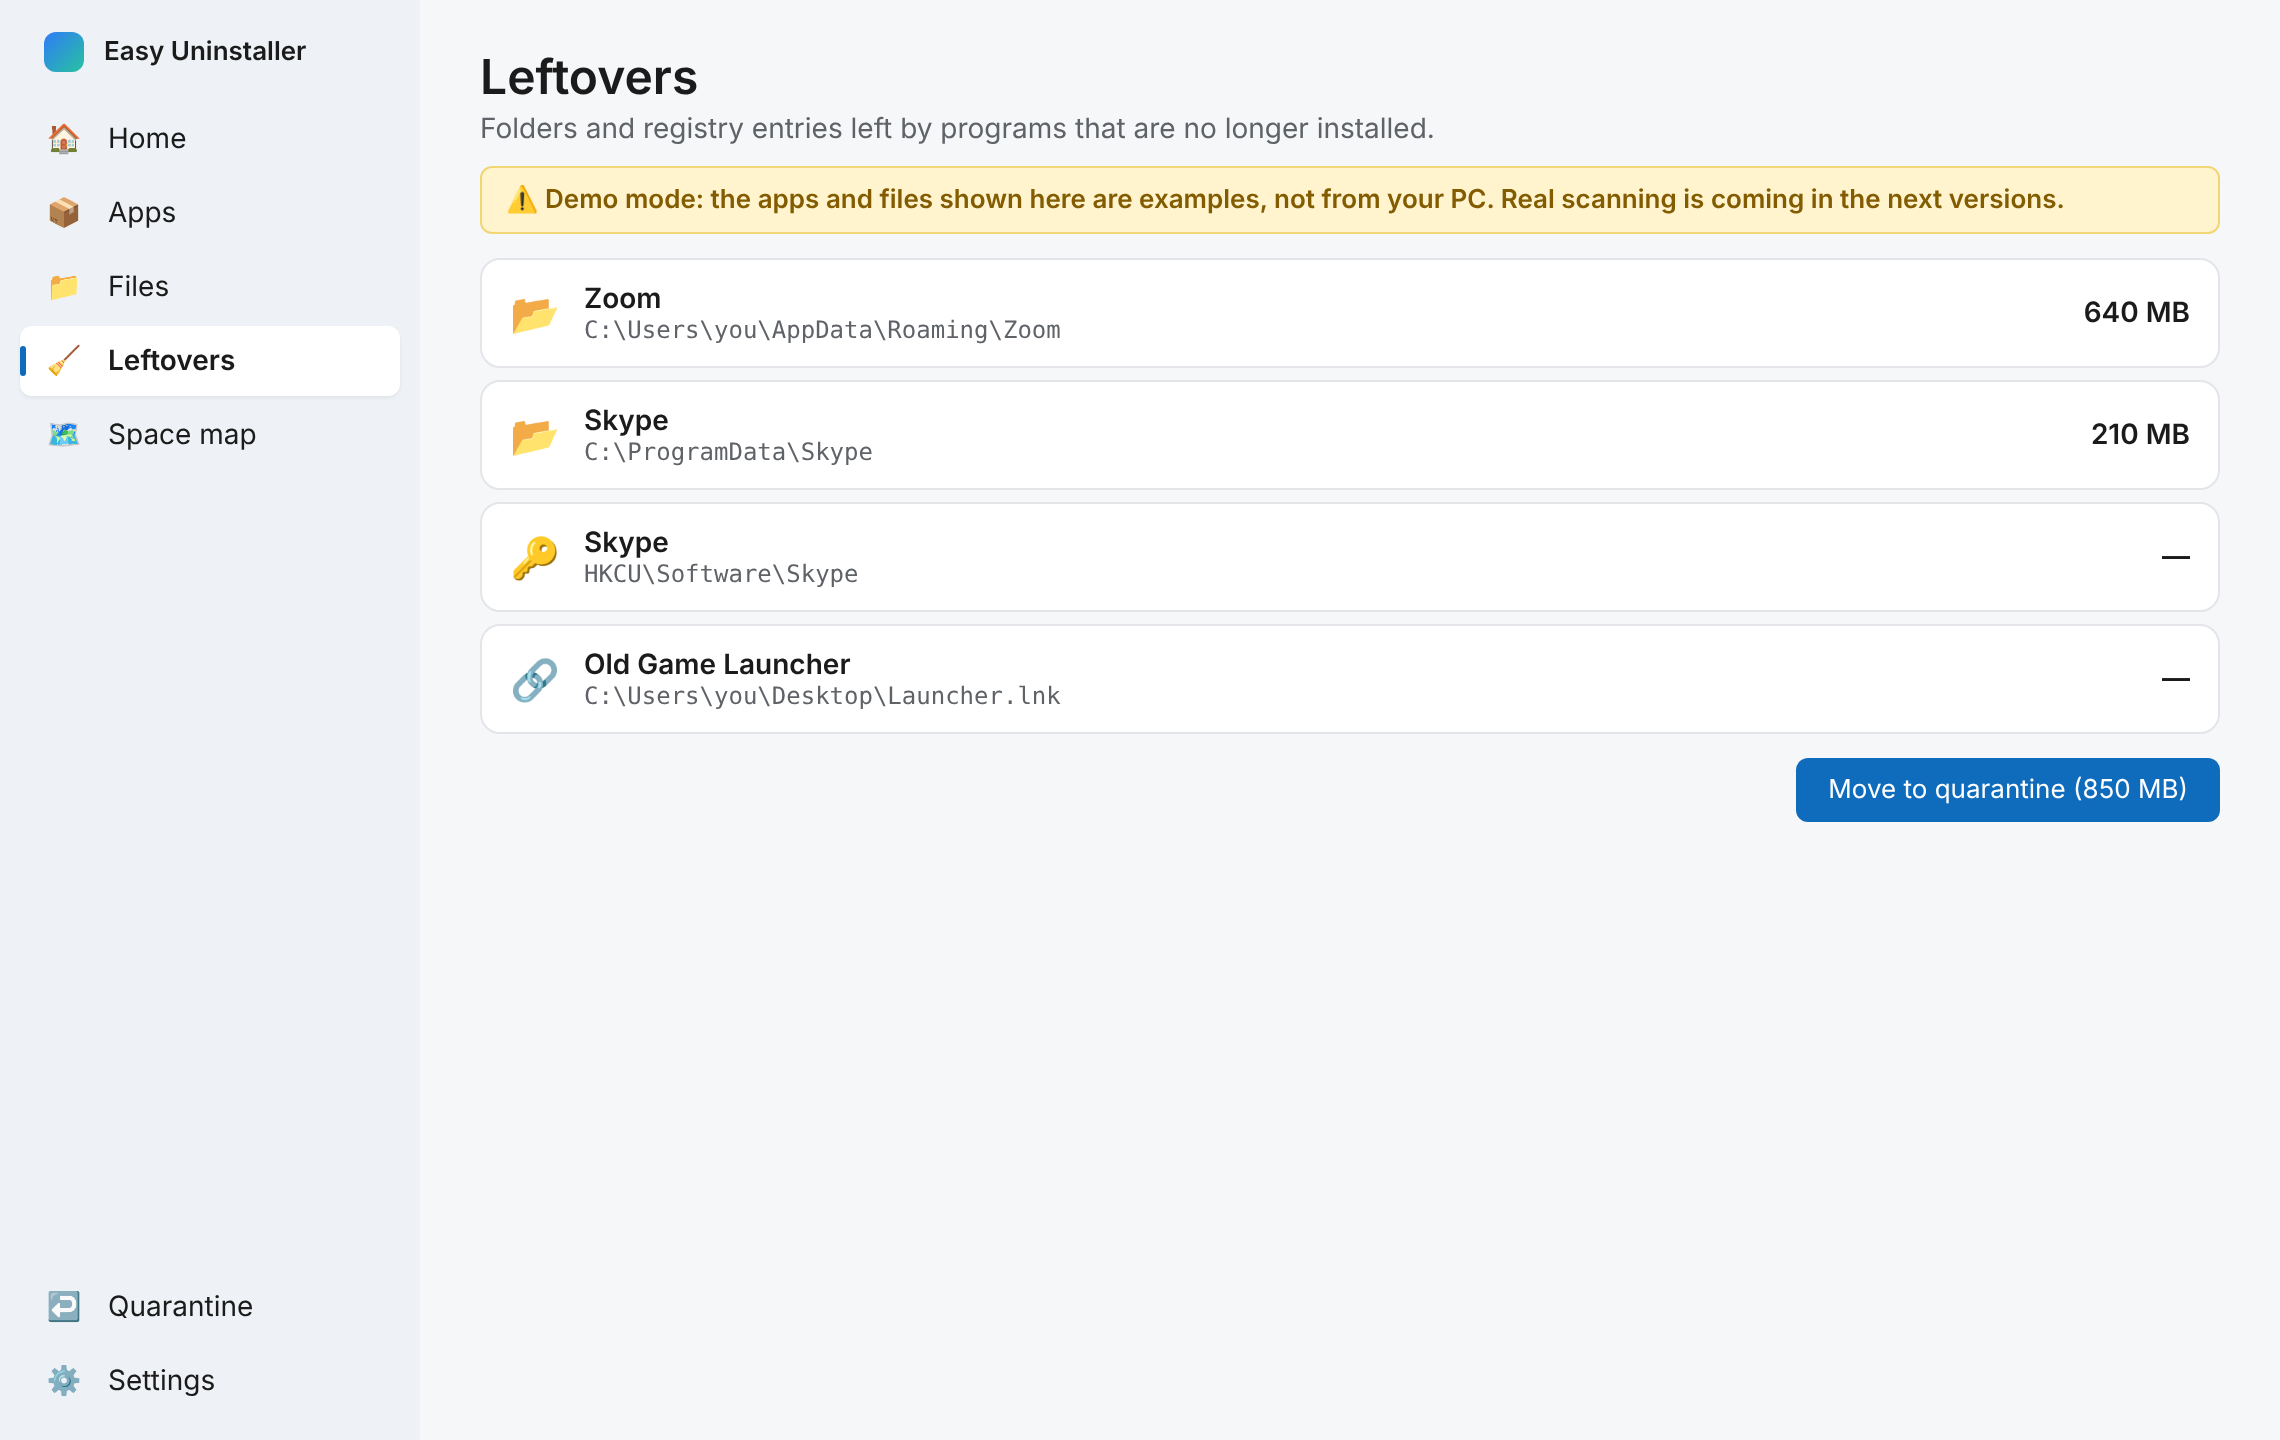
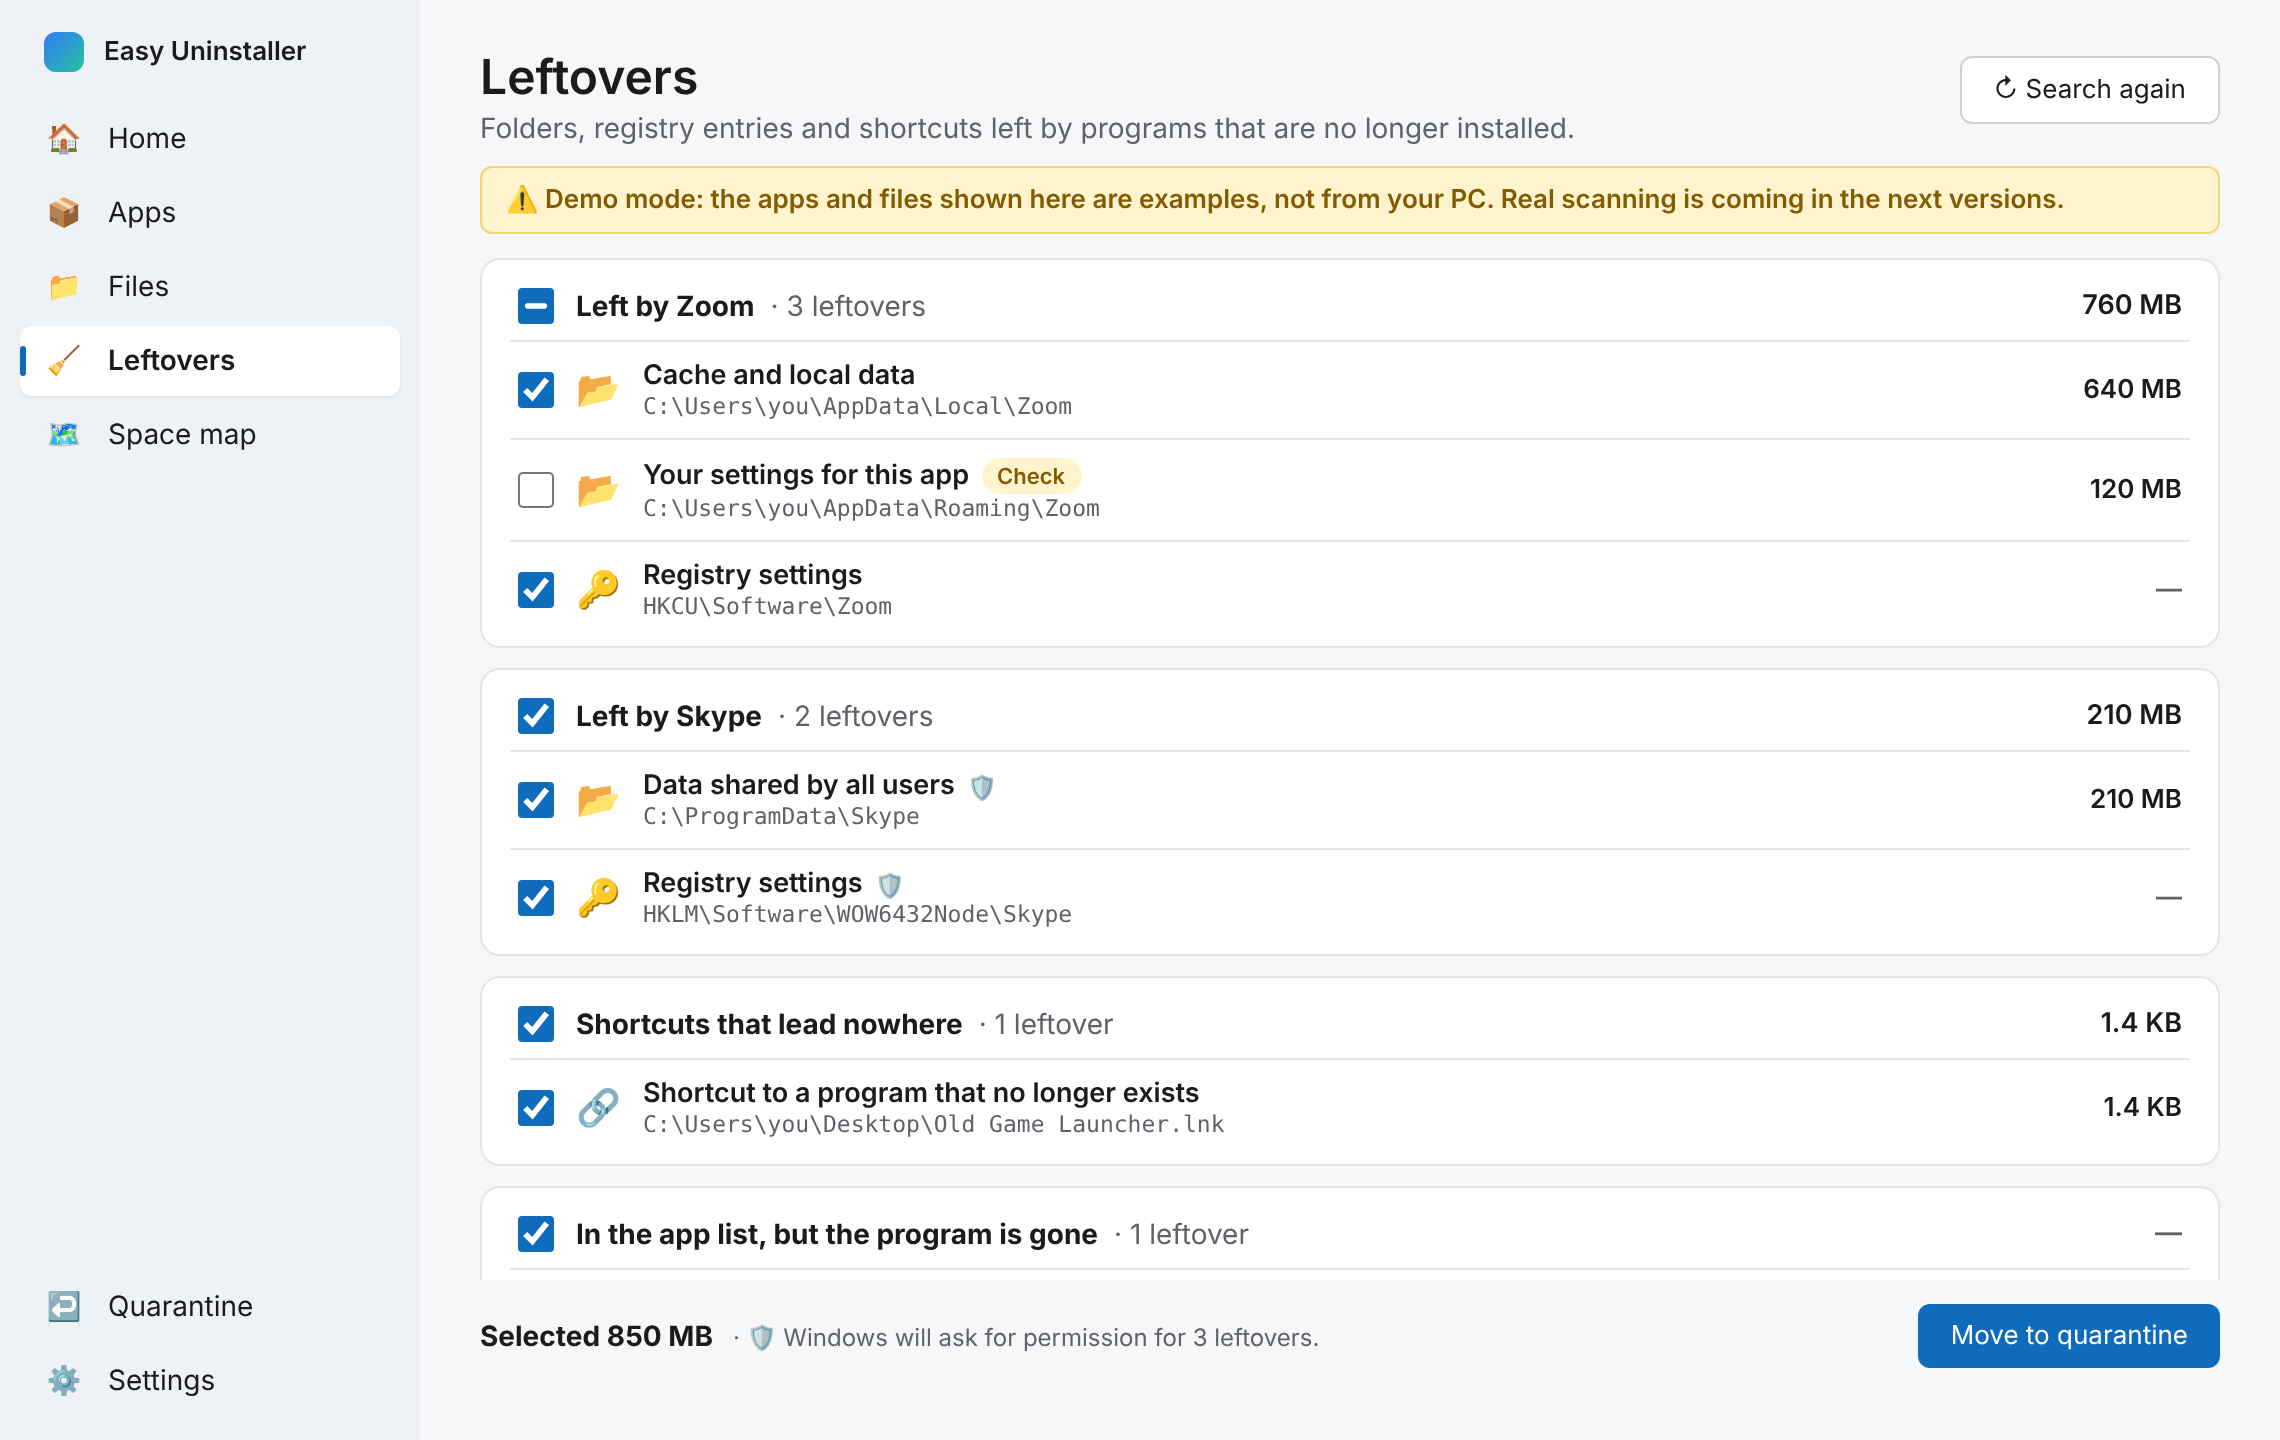
Screenshots, README and small polish for uninstall and leftovers
Claude-Session: https://claude.ai/code/session_01MzT8SPStLXXFynEeUbruYd

diff --git a/src/lib/screens/Leftovers.svelte b/src/lib/screens/Leftovers.svelte
@@ -45,7 +45,7 @@
       if (!out.has(key)) out.set(key, { title, items: [] });
       out.get(key)!.items.push(item);
     }
-    return [...out.values()];
+    return [...out.values()].map((g) => ({ ...g, size: g.items.reduce((s, i) => s + i.sizeBytes, 0) }));
   });
 
   const pickedItems = $derived(items.filter((i) => picked.has(i.id)));
@@ -164,15 +164,13 @@
         <b>{group.title}</b>
         <span class="muted">· {leftoverCount(group.items.length)}</span>
         <span class="grow"></span>
-        <span class="group-size">{formatBytes(group.items.reduce((s, i) => s + i.sizeBytes, 0))}</span>
+        <span class="group-size" class:muted={!group.size}>{group.size ? formatBytes(group.size) : "—"}</span>
       </div>
       {#each group.items as item (item.id)}
         <LeftoverRow {item} checked={picked.has(item.id)} onToggle={() => toggle(item.id)} />
       {/each}
     </div>
   {/each}
-  <p class="muted small">{t("leftovers.historyNote")}</p>
-
   <div class="footer">
     <b>{t("leftovers.selected", { size: formatBytes(pickedBytes) })}</b>
     {#if pickedAdmin}<span class="muted small">· 🛡 {t("uninstall.adminLeftovers", { count: leftoverCount(pickedAdmin) })}</span>{/if}
@@ -217,7 +215,7 @@
   .spinner { flex: none; width: 18px; height: 18px; border: 2px solid var(--border-strong); border-top-color: var(--accent); border-radius: 50%; animation: spin 0.8s linear infinite; }
   @keyframes spin { to { transform: rotate(360deg); } }
 
-  .toast { position: fixed; right: 30px; bottom: 22px; max-width: 560px; display: flex; align-items: center; gap: 12px; padding: 12px 14px 12px 16px; box-shadow: 0 6px 24px rgba(0, 0, 0, 0.14); border-left: 4px solid var(--safe-fg); z-index: 10; }
+  .toast { position: fixed; right: 30px; bottom: 22px; max-width: 560px; display: flex; align-items: center; gap: 12px; padding: 12px 14px 12px 16px; box-shadow: var(--shadow-pop); border-left: 4px solid var(--safe-fg); z-index: 10; }
   .toast.error { border-left-color: var(--danger); }
   .toast-icon { font-size: 18px; }
   .toast-text { flex: 1; font-size: 13px; line-height: 1.4; }

diff --git a/src/lib/screens/Quarantine.svelte b/src/lib/screens/Quarantine.svelte
@@ -36,8 +36,9 @@
   const totalFiles = $derived(entries.reduce((s, e) => s + e.itemCount, 0));
 
   const titleOf = (e: QuarantineEntry) => (e.titleKey ? t(e.titleKey) : (e.title ?? ""));
+  const onlyFiles = (e: QuarantineEntry) => e.items.every((i) => i.kind === "file");
   /** "3 files", or "3 items" when the entry holds folders or registry keys. */
-  const countOf = (e: QuarantineEntry) => (e.items.some((i) => i.kind !== "file") ? itemCount(e.itemCount) : fileCount(e.itemCount));
+  const countOf = (e: QuarantineEntry) => (onlyFiles(e) ? fileCount(e.itemCount) : itemCount(e.itemCount));
   const kindIcons = { file: "", folder: "📂 ", registry: "🔑 " } as const;
   const failure = (err: unknown) => (String(err) === "declined" ? t("quarantine.declined") : t("quarantine.failed", { error: String(err) }));
   const nameOf = (path: string) => path.split(/[\\/]/).pop() ?? path;
@@ -157,7 +158,9 @@
 
       {#if e.items.length > 1}
         <button class="link" aria-expanded={openId === e.id} onclick={() => (openId = openId === e.id ? null : e.id)}>
-          {openId === e.id ? `▾ ${t("quarantine.hideFiles")}` : `▸ ${t("quarantine.showFiles")}`}
+          {openId === e.id
+            ? `▾ ${t(onlyFiles(e) ? "quarantine.hideFiles" : "quarantine.hideItems")}`
+            : `▸ ${t(onlyFiles(e) ? "quarantine.showFiles" : "quarantine.showItems")}`}
         </button>
         {#if openId === e.id}
           <ul class="items">

diff --git a/src/lib/components/UninstallDialog.svelte b/src/lib/components/UninstallDialog.svelte
@@ -319,7 +319,7 @@
 
 <style>
   .backdrop { position: fixed; inset: 0; background: rgba(0, 0, 0, 0.32); display: flex; align-items: center; justify-content: center; z-index: 20; padding: 24px; }
-  .dialog { width: 520px; max-width: 100%; min-height: 400px; max-height: calc(100vh - 48px); padding: 26px 28px 22px; display: flex; flex-direction: column; box-shadow: 0 16px 48px rgba(0, 0, 0, 0.22); }
+  .dialog { width: 520px; max-width: 100%; min-height: 320px; max-height: calc(100vh - 48px); padding: 26px 28px 22px; display: flex; flex-direction: column; box-shadow: 0 16px 48px rgba(0, 0, 0, 0.22); }
   .top { display: flex; justify-content: space-between; align-items: baseline; gap: 12px; }
   .step { font-size: 12px; font-weight: 700; letter-spacing: 0.6px; text-transform: uppercase; color: var(--accent); }
   .count { font-size: 12px; }

diff --git a/README.md b/README.md
@@ -16,7 +16,8 @@ without a way back.
 - **Light.** Built with [Tauri 2](https://tauri.app): it uses the WebView2 engine already in
   Windows, so the installer stays at a few MB instead of 100+ MB.
 - **Safe.** Everything removed goes to a quarantine for 7 days and can be restored with one
-  click. A restore point is created before uninstalling programs.
+  click: files, whole folders and registry keys alike. A restore point can be created before
+  uninstalling programs (off by default, in Settings).
 - **Clear about risk.** Every file group is labelled *Safe*, *Check* or *Personal*.
 - **English and Italian.** Picked from the system language, changeable in Settings.
 - **Light and dark.** Follows the Windows mode by default, changeable in Settings.
@@ -31,6 +32,10 @@ without a way back.
 |---|---|---|
 | ![](docs/screenshots/home-dark.png) | ![](docs/screenshots/map-dark.png) | ![](docs/screenshots/settings-dark.png) |
 
+| Uninstall: leftovers found | Uninstall: done | Leftovers |
+|---|---|---|
+| ![](docs/screenshots/uninstall-leftovers.png) | ![](docs/screenshots/uninstall-done.png) | ![](docs/screenshots/leftovers.png) |
+
 The original design mockups are in [`docs/design`](docs/design).
 
 ## Roadmap
@@ -39,7 +44,8 @@ The original design mockups are in [`docs/design`](docs/design).
 2. ✅ Installed apps: read Win32/MSI programs from the registry and Store apps (read only)
 3. ✅ File scan: temp files, caches, used installers, old downloads, duplicates, large files (read only)
 4. ✅ Quarantine and restore: files are moved, kept 7 days, restorable with one click; Windows restore points
-5. ⬜ Uninstall + leftovers cleanup (after 2 and 4)
+5. ✅ Uninstall + leftovers cleanup: the app's own uninstaller (MSI quietly), Store apps via
+   PackageManager, then leftover folders, registry keys and shortcuts moved to quarantine
 6. ✅ Space map with real data: apps, profile folders, app data, caches and Recycle Bin (read only)
 
 ## Development
